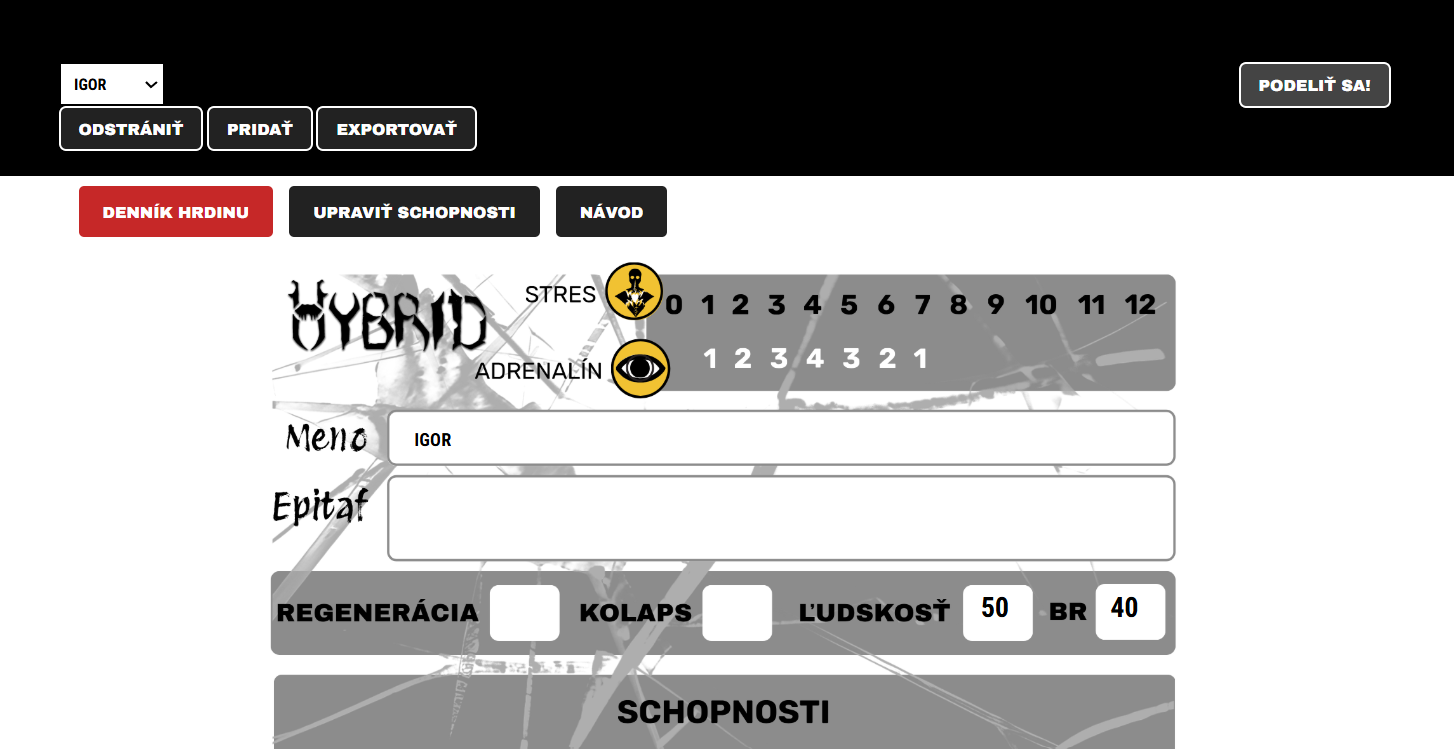
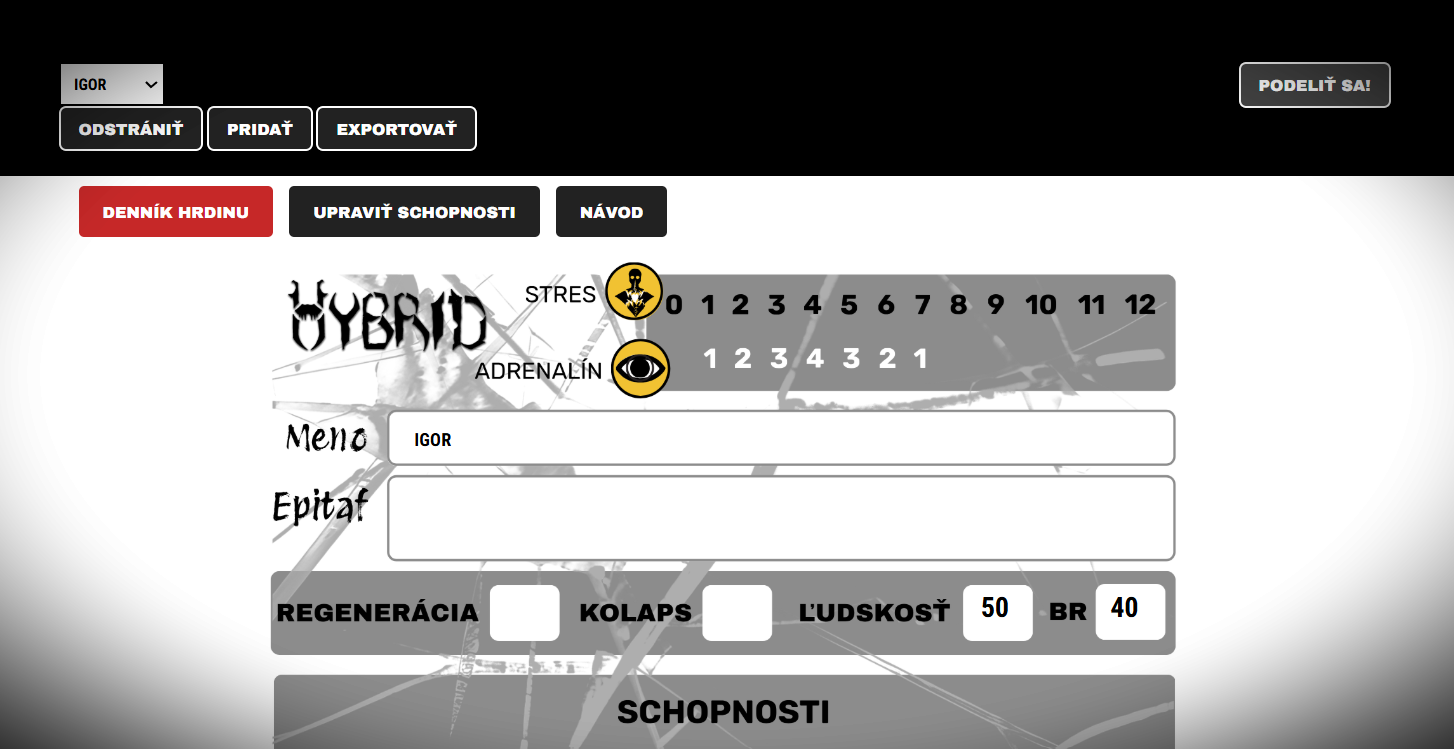
Add files via upload

diff --git a/test/style.css b/test/style.css
@@ -10,11 +10,17 @@
             font-size: 0.8rem;
             max-width: 100%;
             overflow-x: clip; /* Protects layout layout while keeping sticky operational */
+            background-attachment: fixed;
         }
 
         body {
             font-family: 'Roboto Condensed', sans-serif;
             background-color: var(--bg-paper);
+            background-image: url('assets/cover_img.png');
+            background-size: cover;
+            background-position: center 50%;
+            background-repeat: no-repeat;
+            background-attachment: fixed;
             color: var(--text-dark);
             margin: 0;
             padding: 0px;
@@ -55,63 +61,23 @@
             display: block; 
             margin: 0;         /* REMOVED margin-left: 100px which caused layout shifting */
         }
-        /* Hlavné Menu - Top Right */
-        .main-menu {
-            position: absolute;
-            top: 20px;
-            right: 20px;
-            z-index: 1000;
-            font-family: 'Archivo Black', sans-serif;
+
+        .main-section {
+            display: flex; 
+            width: 100%;
+            flex-direction: column;
+            align-items: center;
+            background-color: seashell;
         }
+
         .responsive-img {
             max-width: 100%;  /* Obrázok nikdy nebude širší ako text */
             height: auto;     /* Zachová pomer strán */
             display: block;   /* Odstráni medzeru pod obrázkom */
             margin: 10px auto; /* Vycentruje obrázok a pridá odstup od textu */
         }
-        .menu-dropdown {
-            position: relative;
-            display: inline-block;
-        }
 
-        .menu-trigger {
-            background: var(--hybrid-black);
-            color: white;
-            padding: 10px 20px;
-            border: 2px solid white;
-            cursor: pointer;
-            text-transform: uppercase;
-        }
 
-        .menu-items {
-            display: none;
-            position: absolute;
-            right: 0;
-            background-color: var(--hybrid-black);
-            min-width: 200px;
-            box-shadow: 0px 8px 16px rgba(0,0,0,0.2);
-            border: 1px solid #333;
-            z-index: 2000;
-        }
-
-        .menu-items a {
-            color: #bbb;
-            padding: 12px 16px;
-            text-decoration: none;
-            display: block;
-            font-size: 0.9rem;
-            transition: 0.2s;
-            white-space: nowrap;
-        }
-
-        .menu-items a:hover {
-            background-color: var(--hybrid-red);
-            color: white;
-        }
-
-        .menu-dropdown:hover .menu-items {
-            display: block;
-        }
 
         /* Globálny štýl pre tooltip rámček */
         .skill-tooltip {
@@ -156,12 +122,8 @@
         }
 
         .container {
-            width: 1150px;
-            background-color: #fff;
+            width: 1008px;
             color: #000;
-            border: var(--border-heavy);
-            border-radius: 14px;
-            box-shadow: 15px 15px 0px rgba(0,0,0,0.1);
             overflow: visible !important;
             margin-top: 20;
             z-index: 1;
@@ -186,29 +148,25 @@
             text-align: center;
         }
 
-        /* Container sizing and centering */
+
+        
         .carousel-container {
             position: relative;
-            /* CHANGE: Allow it to occupy a fluid percentage of the screen width */
-            width: 85%; 
-            /* Maintain the original upper limit for desktop screens */
-            max-width: 700px; 
-            
-            margin: 20px auto; 
+            width: 100%; 
+            min-height: 420px;
+            margin: 0px ; 
             overflow: hidden;
             font-family: sans-serif;
         }
 
-        /* Scrollable Track */
         .carousel-track {
             display: flex;
             overflow-x: auto;
             scroll-behavior: smooth;
             scroll-snap-type: x mandatory;
-            scrollbar-width: none; /* Hides scrollbar on Firefox */
-            
-            /* ADD THIS: Ensures the track doesn't artificially stretch the container */
-            width: 100%; 
+            scrollbar-width: none;
+            width: 100%;
+            background: transparent; /* Make sure track is transparent */
         }
 
         /* Individual Slides */
@@ -217,8 +175,6 @@
             max-width: 100%; 
             scroll-snap-align: start;
             box-sizing: border-box;
-            border: 2px solid #000; /* Ensure this has an explicit hex color so it renders crisply */
-            border-radius: 10px;
             position: relative;
             
             /* CHANGE HERE: Strips the default gray background bleed color */
@@ -254,25 +210,24 @@
             align-items: center;     
             width: 100%;
             height: 380px; 
-            background-color: #000;
+            background-color: transparent;  /* Changed from #000 to transparent */
             border-radius: 8px 8px 0 0; 
             overflow: hidden;  
         }
 
-        .image-overlay-text {
+        .carousel-overlay-text {
             font-family: 'Roboto Condensed', sans-serif;
             font-size: 1.5rem;
-            margin-bottom: 15px;
+            margin-bottom: 2%;
             border-radius: 15px;
-            padding: 5px 15px;
+            padding: 5px 5px;
             text-align: center;
             color: #fff;
         }
 
-        .image-overlay-controls {
+        .carousel-overlay-controls {
             display: flex;
             z-index: 5;
-            margin-right: 20px;
         }
         /* Base custom styles for your new overlay buttons */
         .overlay-action-btn {
@@ -300,18 +255,18 @@
             transform: scale(0.95);
         }
 
-        .image-overlay {
+        .carousel-overlay {
             position: absolute;
             bottom: 0;
             left: 0;
             right: 0;
             width: 100%;
             display: flex;
-            flex-direction: row;
+            flex-direction: column;
             justify-content: space-between;
             align-items: center;
             gap:5px;
-            padding: 5px;
+            padding: 10px 50px;
             background-color: rgba(0, 0, 0, 0.75);
         }
 
@@ -336,21 +291,6 @@
             line-height: 1.4;
         }
 
-        /* Action Button/Link Style */
-        .carousel-link-btn {
-            display: inline-block;
-            padding: 10px 20px;
-            background-color: #007bff;
-            color: #fff;
-            text-decoration: none;
-            border-radius: 4px;
-            font-weight: bold;
-            transition: background 0.2s;
-        }
-
-        .carousel-link-btn:hover {
-            background-color: #0056b3;
-        }
 
         /* Navigation Buttons (Left/Right) */
         .carousel-btn {
@@ -399,6 +339,16 @@
             clip-path: polygon(15px 0, 100% 0, calc(100% - 15px) 100%, 0 100%);
         }
 
+        .tab-title {
+            font-family: 'Rubik Dirt', cursive !important;
+            font-feature-settings: "PUNC" 1;
+            font-size: 1.8rem;
+            font-weight: normal;
+            margin-top: 15px;
+            border-bottom: 2px solid var(--hybrid-red);
+            padding-bottom: 10px;
+        }
+
         .tab-row{
             display: flexbox;
             gap: 5px;
@@ -407,16 +357,19 @@
         
         .tab-btn {
             display: inline-block;
-            padding: 10px 20px;
-            background-color: var(--hybrid-red); /* Uses your existing red variable */
+            padding: 12px 16px;
+            background-color: var(--hybrid-black); /* Uses your existing red variable */
             color: #ffffff;
             border: none;
             cursor: pointer;
-            font-family: 'Roboto Condensed', sans-serif;
-            font-weight: bold;
+            font-family: 'Rubik Dirt', cursive !important;
+            font-feature-settings: "PUNC" 1;
+            font-size: 16px;
             text-transform: uppercase;
             text-decoration: none;
-            border-radius: 18px;
+            border-radius: 8px;
+            border: 1px solid;
+            border-color: white;
             
             /* Crucial for smooth animation */
             transition: transform 0.2s ease, background-color 0.2s ease, box-shadow 0.2s ease;
@@ -863,10 +816,7 @@
             width: 100%;
             padding: 10px 30px;        
             box-sizing: border-box;
-            margin-bottom: 20px;
             background-color: rgba(0, 0, 0, 0.85);
-            
-            /* FIXES */
             position: sticky;
             top: 0;                    /* Tells it exactly WHERE to stick */
             z-index: 1000;             /* Ensures it scrolls ABOVE elements underneath */
@@ -1552,10 +1502,11 @@
                 }
 
                 .carousel-container {
-                    width: 92%; 
-                    /* ADD THIS: Eliminates any lingering flex overflow space */
+
                     box-sizing: border-box; 
                 }
+
+        
 
                 .carousel-track {
                     width: 100% !important;

diff --git a/test/index.html b/test/index.html
@@ -7,6 +7,7 @@
     <link rel="icon" type="image/png" href="assets/logo_icon.png">
     <meta name="description" content="Staňte sa Hybridom, človekom so schopnosťami Somôr, a vyberte si svoju cestu. Zachránite zvyšky ľudstva alebo prispejete k jeho záhube?">  
     <link href="https://fonts.googleapis.com/css2?family=Archivo+Black&family=Roboto+Condensed:wght@400;700&display=swap" rel="stylesheet">
+    <link href="https://fonts.googleapis.com/css2?family=Rubik+Dirt&display=swap" rel="stylesheet">
 
     <link rel="stylesheet" href="style.css">    
     
@@ -36,9 +37,6 @@
         </div>
     </div>
 
-<div style="display: flex; flex-direction: column;">
-
-
     <div class="carousel-container">
         <button class="carousel-btn prev-btn" aria-label="Previous Slide">&#10094;</button>
         <button class="carousel-btn next-btn" aria-label="Next Slide">&#10095;</button>
@@ -47,12 +45,11 @@
             
             <div class="carousel-slide">
                 <div class="featured-image-wrapper">
-                    <img src="assets/builder.png" alt="HYBRID">
-                    <div class="image-overlay">
+                    <div class="carousel-overlay">
                         <div>
-                            <p class="image-overlay-text" style="color: #fff">Vytvor si postavu vďaka interaktívnemu denníku.</p>
+                            <p class="carousel-overlay-text" style="color: #fff">Vytvor si postavu vďaka interaktívnemu denníku.</p>
                         </div>                    
-                        <div class="image-overlay-controls">
+                        <div class="carousel-overlay-controls">
                             <button class="overlay-action-btn" onclick="openTab('builder')">VYTVORIŤ POSTAVU</button>
                         </div>
                     </div>
@@ -61,12 +58,11 @@
 
             <div class="carousel-slide">
                 <div class="featured-image-wrapper">
-                    <img src="sim/assets/WELCOME.png" alt="Second Slide">
-                    <div class="image-overlay">
+                    <div class="carousel-overlay">
                         <div >
-                            <p class="image-overlay-text" style="color: #fff">Nová browser hra! Vyskúšaj si Hybrid už teraz!</p>
+                            <p class="carousel-overlay-text" style="color: #fff">Nová browser hra! Vyskúšaj si Hybrid už teraz!</p>
                         </div>                    
-                        <div class="image-overlay-controls">
+                        <div class="carousel-overlay-controls">
                             <button class="overlay-action-btn" onclick="window.open('https://hybridrpg.sk/sim', '_blank')">OTVORIŤ</button>
                         </div>
                     </div>
@@ -75,6 +71,11 @@
 
         </div>
     </div>
+
+<div class="main-section">
+
+
+
     
 
 

diff --git a/test/tabs/articles/schopnosti/index.html b/test/tabs/articles/schopnosti/index.html
@@ -1,0 +1,21 @@
+<!DOCTYPE html>
+<html lang="sk">
+<head>
+    <meta charset="UTF-8">
+    <title>Nový systém schopností - HYBRID</title>
+
+    <meta property="og:type" content="article">
+    <meta property="og:url" content="https://hybridrpg.sk/tabs/articles/schopnosti/">
+    <meta property="og:title" content="Nový systém schopností">
+    <meta property="og:description" content="O tom, čo viedlo ku vzniku Hybridu.">
+    <meta property="og:image" content="https://hybridrpg.sk/assets/articles/schopnosti.jpg">
+
+    <script>
+        window.location.href = "https://hybridrpg.sk/#novinky-schopnosti";
+    </script>
+</head>
+<body>
+    <h1>Novyý systém schopností</h1>
+    <p>Pozrite si najnovšie zmeny, tentokrát v systéme schopností.</p>
+</body>
+</html>

diff --git a/test/tabs/articles/schopnosti/schopnosti.html b/test/tabs/articles/schopnosti/schopnosti.html
@@ -1,0 +1,14 @@
+<h1 style="font-family:'Archivo Black'; border-bottom: 3px solid var(--hybrid-red); padding-bottom: 10px; margin-top: 0;">
+    Ako to začalo
+</h1>
+
+<p style="color: var(--hybrid-red); font-weight: bold; font-size: 0.9rem; margin-bottom: 20px;">
+    PUBLIKOVANÉ: 11. 05. 2026 | AUTOR: Varyx
+</p>
+
+
+<div class="article-body" style="font-size: 1.1rem; line-height: 1.7; color: #333; max-width: 700px; text-align: justify;">
+    <p>
+        Prepracovali sme systém schopností. Doteraz sme museli robiť kompromisy medzi voľnosťou a štruktúrou. Nová verzia ponúka obe, bez kompromisov. Poďte sa pozrieť, ako sme to dosiahli.
+    </p>
+<iframe width="560" height="315" src="https://www.youtube.com/embed/2UckzKdZhlY?si=6J2JIxaooe8E8Ex2" title="YouTube video player" frameborder="0" allow="accelerometer; autoplay; clipboard-write; encrypted-media; gyroscope; picture-in-picture; web-share" referrerpolicy="strict-origin-when-cross-origin" allowfullscreen></iframe>

diff --git a/test/tabs/uvod.html b/test/tabs/uvod.html
@@ -1,4 +1,4 @@
-            <h2 style="font-family:'Archivo Black'; margin-top: 15px; border-bottom: 2px solid var(--hybrid-red); padding-bottom: 10px;">
+            <h2 class="tab-title">
                 POST-APO RPG VO V4!
             </h2>
             <p style="margin-top: 20px; margin-left: 30px; margin-right: 30px; font-size: 1.4rem; line-height: 1.6;">